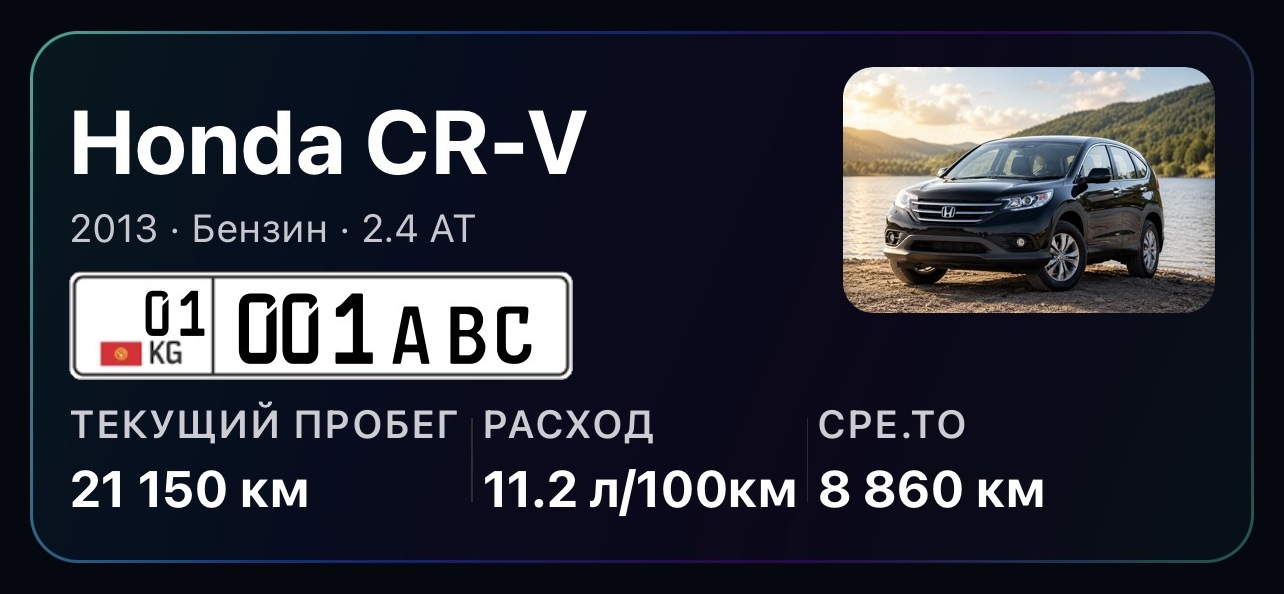
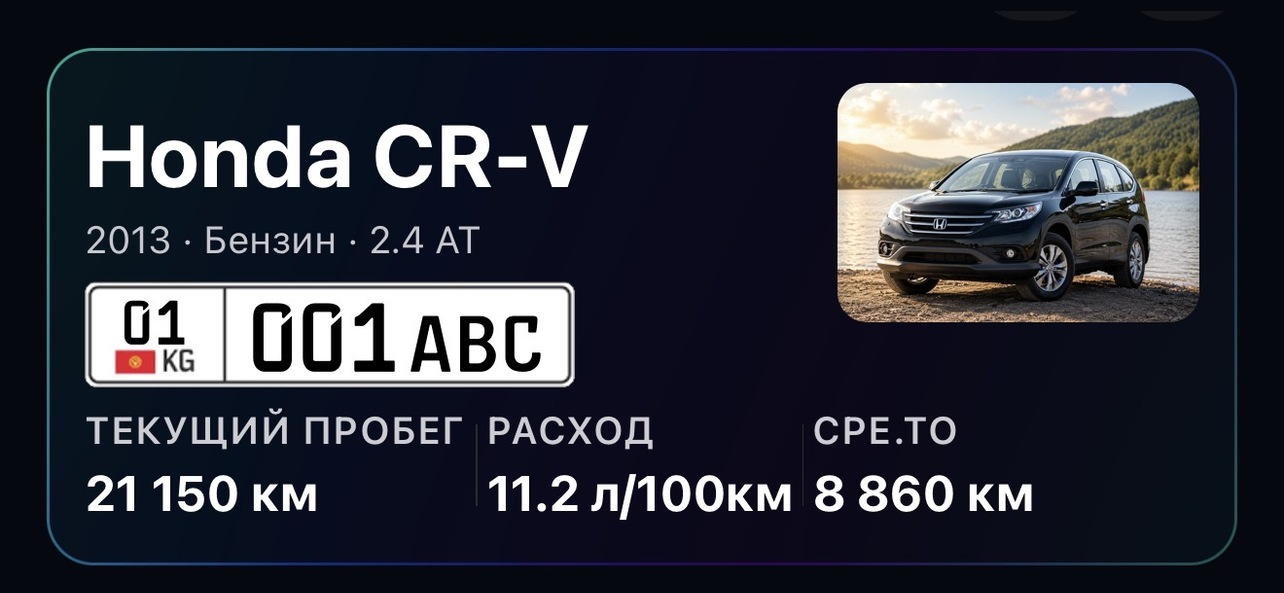
feat(plates): добавить скрины госномеров BY/AZ/UZ, обновить KG

diff --git a/index.html b/index.html
@@ -1179,6 +1179,9 @@
       <div class="plate-shot"><img src="screenshots/plate-rus.jpg" alt="Госномер Россия на карточке авто" loading="lazy" /></div>
       <div class="plate-shot"><img src="screenshots/plate-kz.jpg" alt="Госномер Казахстан на карточке авто" loading="lazy" /></div>
       <div class="plate-shot"><img src="screenshots/plate-kg.jpg" alt="Госномер Кыргызстан на карточке авто" loading="lazy" /></div>
+      <div class="plate-shot"><img src="screenshots/plate-by.jpg" alt="Госномер Беларусь на карточке авто" loading="lazy" /></div>
+      <div class="plate-shot"><img src="screenshots/plate-az.jpg" alt="Госномер Азербайджан на карточке авто" loading="lazy" /></div>
+      <div class="plate-shot"><img src="screenshots/plate-uz.jpg" alt="Госномер Узбекистан на карточке авто" loading="lazy" /></div>
     </div>
   </div>
 </section>
